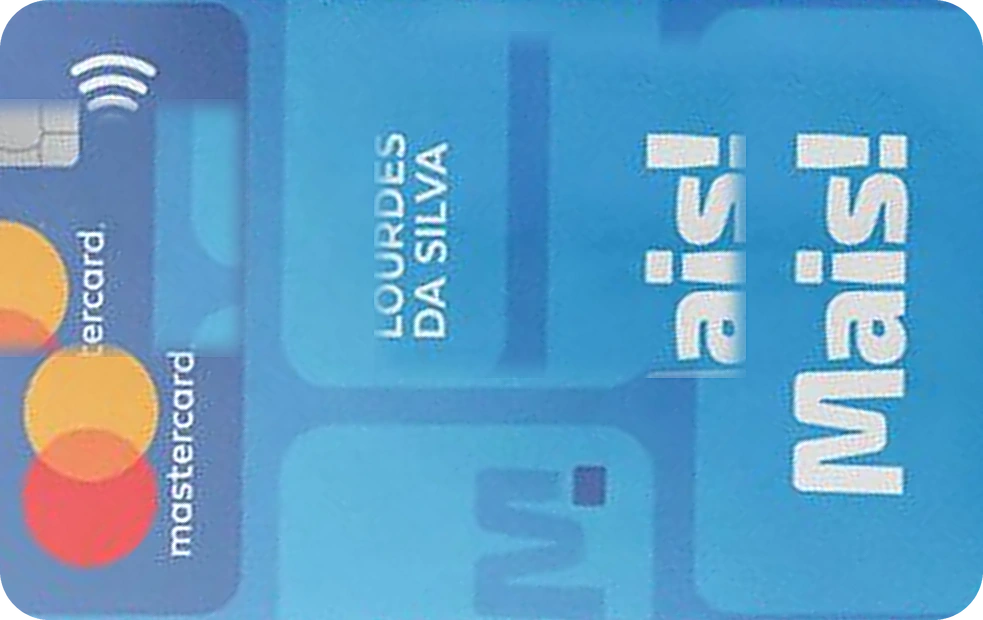
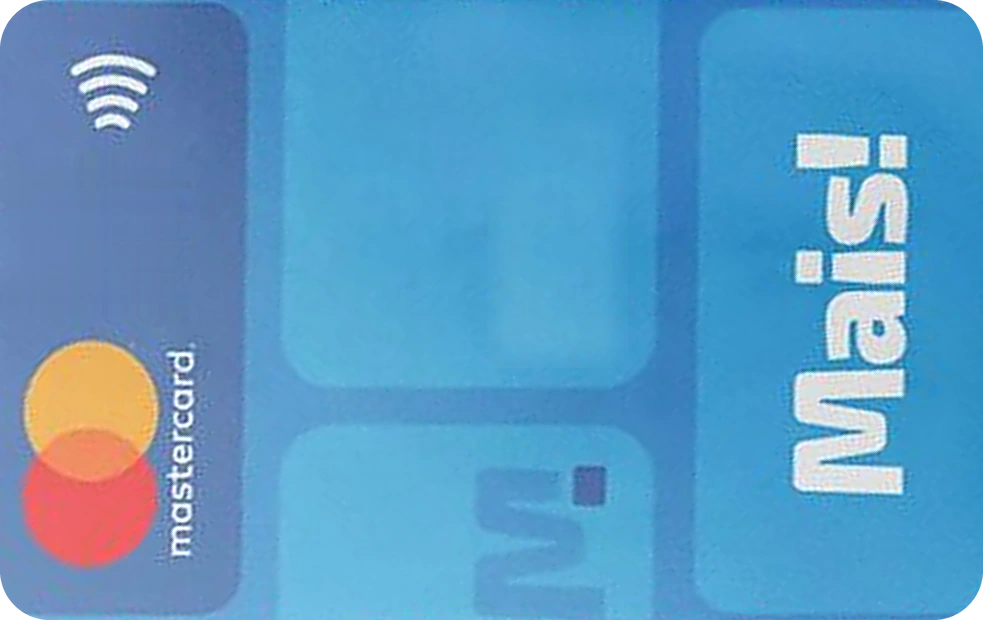
Fluxo PF: arte do Mais! (sem chip e sem nome), Vestcasa com dm e VISA inteiros, Negreiros mais nitido

diff --git a/pf.js b/pf.js
@@ -362,7 +362,7 @@
   // Bancos usam assets/bancos/<id>.png; lojas usam assets/emissores/<id>.png (troque o arquivo pelo logo oficial quando quiser).
   const EMISSORES = [['bradesco', 'Bradesco', 'b'], ['nubank', 'Nubank', 'b'], ['itau', 'Itaú', 'b'], ['santander', 'Santander', 'b'], ['bb', 'Banco do Brasil', 'b'], ['caixa', 'Caixa', 'b'], ['inter', 'Inter', 'b'], ['c6', 'C6 Bank', 'b'], ['mercadopago', 'Mercado Pago', 'b'], ['brb', 'BRB', 'b'], ['digio', 'Digio', 'b'], ['picpay', 'PicPay', 'b'], ['carrefour', 'Carrefour', 'e'], ['renner', 'Renner', 'e'], ['marisa', 'Marisa', 'e'], ['vestcasa', 'Vest Casa', 'e'], ['dmcard', 'DM Card', 'e'], ['maiscard', 'Cartão Mais', 'e'], ['dibs', 'Dibs', 'e'], ['negreiros', 'Mercado Negreiros', 'e'], ['fernando', 'Armarinhos Fernando', 'e'], ['amazon', 'Amazon', 'e'], ['outro', 'Outro', '']];
   const emissorDe = c => { if (!c) return ''; if (c.emissor) return c.emissor; const n = norm(c.nome || ''), pal = x => new RegExp('(^|[^a-z0-9])' + x + '([^a-z0-9]|$)').test(n); return /bradesco/.test(n) ? 'bradesco' : (/nubank/.test(n) || pal('nu')) ? 'nubank' : /itau/.test(n) ? 'itau' : /santander/.test(n) ? 'santander' : (/brasil/.test(n) || pal('bb')) ? 'bb' : /caixa/.test(n) ? 'caixa' : pal('inter') ? 'inter' : pal('c6') ? 'c6' : /mercado *pago/.test(n) ? 'mercadopago' : pal('brb') ? 'brb' : /digio/.test(n) ? 'digio' : /picpay/.test(n) ? 'picpay' : /carrefour/.test(n) ? 'carrefour' : /renner/.test(n) ? 'renner' : /marisa/.test(n) ? 'marisa' : /vest *casa/.test(n) ? 'vestcasa' : (pal('dm') || /dm *card/.test(n)) ? 'dmcard' : /mais/.test(n) ? 'maiscard' : /dibs/.test(n) ? 'dibs' : /negreiros/.test(n) ? 'negreiros' : /fernando/.test(n) ? 'fernando' : /amazon/.test(n) ? 'amazon' : ''; };
-  const imagemDe = c => { if (!c) return ''; if (c.imagem) return c.imagem; const n = norm(c.nome || ''); if (emissorDe(c) === 'nubank' && /master/i.test(c.bandeira || '')) return 'assets/cartoes/nubank-mastercard.webp?v=1'; if (emissorDe(c) === 'caixa' && /visa/i.test(c.bandeira || '')) return 'assets/cartoes/caixa-visa.webp?v=1'; if (emissorDe(c) === 'brb' && /visa/i.test(c.bandeira || '')) return 'assets/cartoes/brb-visa.webp?v=1'; if (emissorDe(c) === 'digio' && /visa/i.test(c.bandeira || '')) return 'assets/cartoes/digio-visa.webp?v=1'; if (emissorDe(c) === 'amazon' && /master/i.test(c.bandeira || '')) return 'assets/cartoes/amazon-mastercard.webp?v=2'; if (emissorDe(c) === 'negreiros') return 'assets/cartoes/negreiros.webp?v=1'; if (emissorDe(c) === 'vestcasa') return 'assets/cartoes/vestcasa.webp?v=2'; if (emissorDe(c) === 'fernando') return 'assets/cartoes/fernando.webp?v=1'; if (emissorDe(c) === 'dmcard') return 'assets/cartoes/dmcard.webp?v=1'; if (emissorDe(c) === 'renner') return 'assets/cartoes/renner.webp?v=1'; if (emissorDe(c) === 'marisa') return 'assets/cartoes/marisa.webp?v=1'; if (emissorDe(c) === 'dibs') return 'assets/cartoes/dibs.webp?v=1'; return /bradesco/.test(n) && /disney/.test(n) ? 'assets/cartoes/bradesco-disney.webp?v=4' : (/bradesco/.test(n) && /(^|[^a-z0-9])neo([^a-z0-9]|$)/.test(n) ? 'assets/cartoes/bradesco-neo.webp?v=4' : ''); };
+  const imagemDe = c => { if (!c) return ''; if (c.imagem) return c.imagem; const n = norm(c.nome || ''); if (emissorDe(c) === 'nubank' && /master/i.test(c.bandeira || '')) return 'assets/cartoes/nubank-mastercard.webp?v=1'; if (emissorDe(c) === 'caixa' && /visa/i.test(c.bandeira || '')) return 'assets/cartoes/caixa-visa.webp?v=1'; if (emissorDe(c) === 'brb' && /visa/i.test(c.bandeira || '')) return 'assets/cartoes/brb-visa.webp?v=1'; if (emissorDe(c) === 'digio' && /visa/i.test(c.bandeira || '')) return 'assets/cartoes/digio-visa.webp?v=1'; if (emissorDe(c) === 'amazon' && /master/i.test(c.bandeira || '')) return 'assets/cartoes/amazon-mastercard.webp?v=2'; if (emissorDe(c) === 'negreiros') return 'assets/cartoes/negreiros.webp?v=2'; if (emissorDe(c) === 'vestcasa') return 'assets/cartoes/vestcasa.webp?v=3'; if (emissorDe(c) === 'fernando') return 'assets/cartoes/fernando.webp?v=1'; if (emissorDe(c) === 'dmcard') return 'assets/cartoes/dmcard.webp?v=1'; if (emissorDe(c) === 'renner') return 'assets/cartoes/renner.webp?v=1'; if (emissorDe(c) === 'marisa') return 'assets/cartoes/marisa.webp?v=1'; if (emissorDe(c) === 'dibs') return 'assets/cartoes/dibs.webp?v=1'; if (emissorDe(c) === 'maiscard') return 'assets/cartoes/maiscard.webp?v=1'; return /bradesco/.test(n) && /disney/.test(n) ? 'assets/cartoes/bradesco-disney.webp?v=4' : (/bradesco/.test(n) && /(^|[^a-z0-9])neo([^a-z0-9]|$)/.test(n) ? 'assets/cartoes/bradesco-neo.webp?v=4' : ''); };
   function emissorLogo(id, z) {
     z = z || 24; const e = EMISSORES.find(x => x[0] === id);
     if (!e || e[2] === '') return bancoLogo('outro', z);
